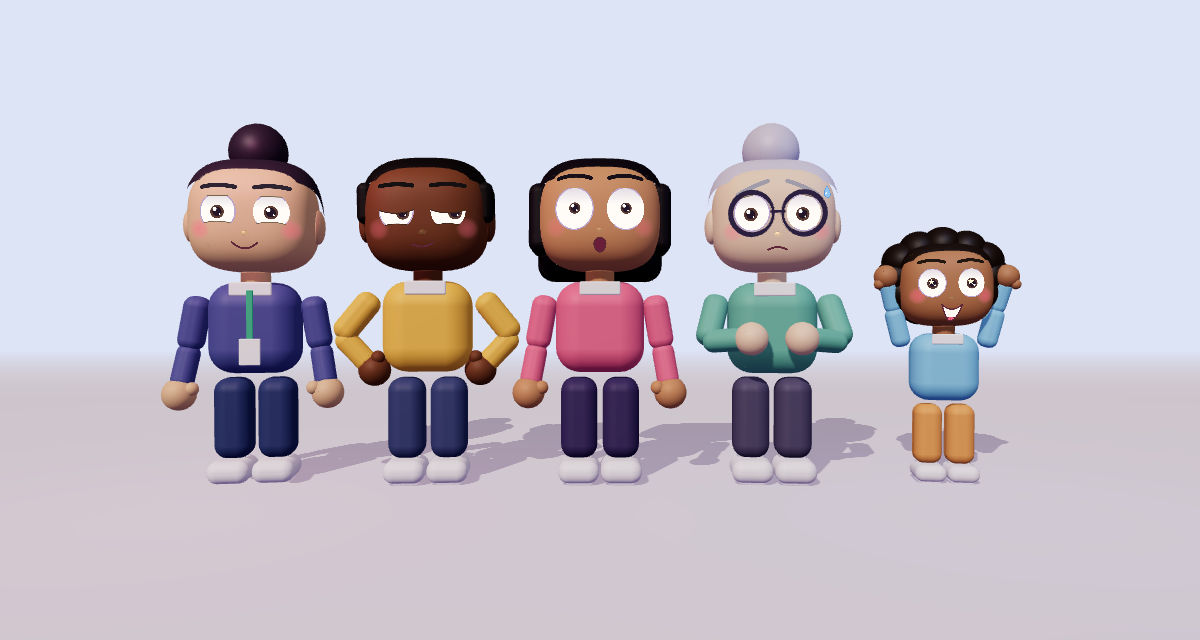
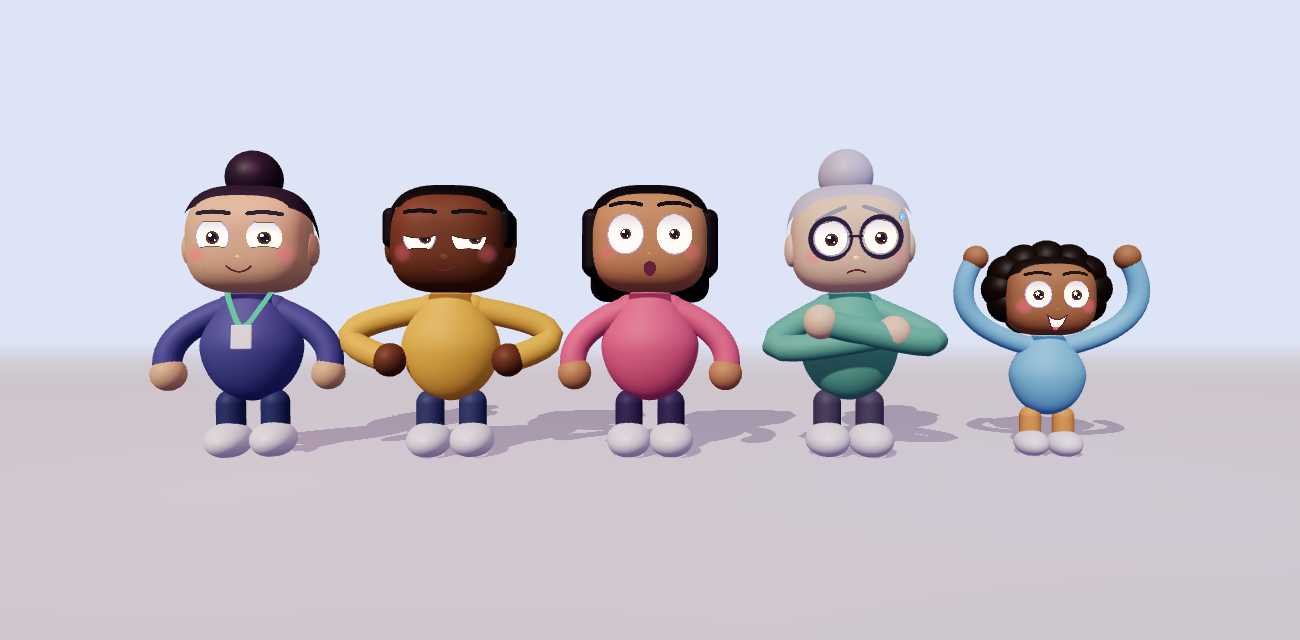
Rebuild body to match the Claim Line style: egg torso, no neck, noodle arms, stubby legs
Claude-Session: https://claude.ai/code/session_01Kz45xoKyRh9DgKCeGKYSWw

Changed region(s): [[0.0925, 0.1875, 0.8942, 0.7812]]

diff --git a/characters/expressive/body.js b/characters/expressive/body.js
@@ -28,6 +28,19 @@ export function createExpressiveKit(THREE, RoundedBoxGeometry, kit) {
     }
     g.computeVertexNormals(); return g;
   }
+  // a soft egg for the torso: wide at the bottom, narrower at the top (sx, sy, sz = radii at the widest part)
+  function egg(sx, sy, sz) {
+    const g = new THREE.SphereGeometry(1, 48, 36), pos = g.attributes.position;
+    for (let i = 0; i < pos.count; i++) {
+      const x = pos.getX(i), y = pos.getY(i), z = pos.getZ(i);
+      const w = 1 - 0.34 * smooth01((y + 0.15) / 1.15);            // narrower toward the top
+      pos.setXYZ(i, x * sx * w, y * sy, z * sz * w);
+    }
+    g.computeVertexNormals(); return g;
+  }
+  const smooth01 = t => { t = Math.min(1, Math.max(0, t)); return t * t * (3 - 2 * t); };
+  // z of the front surface of the egg at (x, y) in body space (used to stick the badge strap on the front)
+  function eggZ(x, y) { const yy = (y - 2.95) / 1.55, w = 1 - 0.34 * smooth01((yy + 0.15) / 1.15), rx = 1.28 * w, rz = 0.98 * w; const q = 1 - (x / rx) ** 2 - yy * yy; return rz * Math.sqrt(Math.max(0.02, q)); }
   const HEAD = { rx: 1.5, ry: 1.3, rz: 1.2 };
   // the face decal: same blob, slightly bigger, UV mapped straight from the front so the 2D face fits exactly
   function facePatch() {
@@ -41,16 +54,19 @@ export function createExpressiveKit(THREE, RoundedBoxGeometry, kit) {
   }
   const FACE_GEO = facePatch();
 
-  const POSES = {   // per arm: [out, forward, elbowBend, forearmInward] in degrees; lift = shoulder raise
-    idle:     { L: [9, 0, 10, 0],    R: [9, 0, 10, 0] },
-    hips:     { L: [38, 0, 0, 82],   R: [38, 0, 0, 82] },
-    shrug:    { L: [24, 0, 20, -55], R: [24, 0, 20, -55], lift: 0.28 },
-    facepalm: { L: [9, 0, 10, 0],    R: [6, 96, 128, 52] },
-    wave:     { L: [9, 0, 10, 0],    R: [150, 0, 30, 0] },
-    armsUp:   { L: [165, 0, 10, 0],  R: [165, 0, 10, 0] },
-    crossed:  { L: [12, 28, 95, 62], R: [12, 28, 95, 62] },
-    point:    { L: [9, 0, 10, 0],    R: [8, 84, 6, 0] },
-    think:    { L: [12, 30, 95, 62], R: [10, 70, 135, 28] },
+  // Poses: where the ELBOW (e) and HAND (h) go, [x, y, z], for the right arm. The left arm uses the same numbers mirrored,
+  // unless a pose gives its own `L`. The arm is one smooth tube that bends through those points (like noodle arms).
+  const SHOULDER = [0.55, 3.8, 0.0];
+  const POSES = {
+    idle:     { R: { e: [1.75, 3.05, 0.15], h: [1.95, 2.1, 0.3] } },
+    hips:     { R: { e: [2.55, 3.15, -0.15], h: [1.5, 2.45, 0.4] } },
+    shrug:    { R: { e: [2.25, 3.6, 0.25], h: [3.0, 4.15, 0.95] }, lift: 0.3 },
+    facepalm: { R: { e: [2.1, 4.2, 1.05], h: [0.3, 5.45, 2.0] }, L: { e: [-1.75, 3.05, 0.15], h: [-1.95, 2.1, 0.3] } },
+    wave:     { R: { e: [2.55, 4.7, 0.45], h: [3.0, 6.3, 0.5] }, L: { e: [-1.75, 3.05, 0.15], h: [-1.95, 2.1, 0.3] } },
+    armsUp:   { R: { e: [2.7, 5.0, 0.2], h: [2.5, 6.9, 0.3] } },
+    crossed:  { R: { e: [1.9, 2.95, 1.05], h: [-0.9, 3.45, 1.55] }, L: { e: [-1.9, 2.8, 0.85], h: [0.9, 3.15, 1.35] } },
+    point:    { R: { e: [1.95, 3.6, 1.0], h: [2.5, 4.05, 2.7] }, L: { e: [-1.75, 3.05, 0.15], h: [-1.95, 2.1, 0.3] } },
+    think:    { R: { e: [1.7, 3.6, 0.95], h: [0.55, 4.45, 1.85] }, L: { e: [-1.9, 2.8, 0.85], h: [0.9, 3.1, 1.35] } },
   };
 
   function mkExpressive(o = {}) {
@@ -59,15 +75,24 @@ export function createExpressiveKit(THREE, RoundedBoxGeometry, kit) {
     const g = new THREE.Group(); g.position.set(O.x, O.y, O.z); g.rotation.y = O.ry; g.scale.setScalar((O.kid ? 0.74 : 1) * O.scale); if (O.parent) O.parent.add(g);
     const body = new THREE.Group(); g.add(body);
     const bodyG = new THREE.Group(); body.add(bodyG);   // torso and everything above the hips (leans and bounces)
-    // legs and shoes
-    const legs = [-1, 1].map(s => { const l = new THREE.Group(); l.position.set(s * 0.52, 2.62, 0); g.add(l); box(l, 0.9, 2.0, 0.95, bottom, 0, -1.05, 0, { round: 0.34 }); box(l, 1.0, 0.55, 1.45, hexn(O.shoe), 0, -2.3, 0.22, { round: 0.26 }); return l; });
-    // torso
-    box(bodyG, 2.2, 2.25, 1.4, top, 0, 3.82, 0, { round: 0.62 });
-    box(bodyG, 1.0, 0.34, 0.1, 0xffffff, 0, 4.78, 0.62, { round: 0.1, noShadow: true });       // collar
-    if (O.lanyard) { box(bodyG, 0.16, 1.2, 0.05, hexn(O.lanyard), 0, 4.15, 0.72, { round: 0.05, noShadow: true }); box(bodyG, 0.5, 0.65, 0.07, 0xffffff, 0, 3.25, 0.74, { round: 0.1, noShadow: true }); }
-    cyl(bodyG, 0.36, 0.5, skin, 0, 5.05, 0, { seg: 16 });
-    // head
-    const head = new THREE.Group(); head.position.set(0, 6.5, 0); bodyG.add(head);
+    // legs: short stubby tubes ending in big round shoes (like the Claim Line people)
+    const shoeC = hexn(O.shoe);
+    const legs = [-1, 1].map(s => {
+      const l = new THREE.Group(); l.position.set(s * 0.55, 1.5, 0); g.add(l);
+      const leg = new THREE.Mesh(new THREE.CapsuleGeometry(0.36, 0.75, 6, 14), mat(bottom)); leg.position.set(0, -0.55, 0); leg.castShadow = true; l.add(leg);
+      const shoe = new THREE.Mesh(new THREE.SphereGeometry(1, 20, 14), mat(shoeC, { roughness: 0.45 })); shoe.scale.set(0.58, 0.46, 0.82); shoe.position.set(0, -1.1, 0.2); shoe.castShadow = true; l.add(shoe);
+      return l;
+    });
+    // torso: ONE soft egg shape, wider at the bottom, no neck. The head sits right on top of it.
+    const torso = new THREE.Mesh(egg(1.28, 1.55, 0.98), mat(top, { roughness: 0.6 })); torso.position.set(0, 2.95, 0); torso.castShadow = true; torso.receiveShadow = true; bodyG.add(torso);
+    if (O.lanyard) {   // a thin strap that follows the front of the egg, with a small badge
+      const pts = []; for (let i = 0; i <= 10; i++) { const u = i / 10, x = (1 - Math.abs(u * 2 - 1)) * 0 + (u < 0.5 ? -1 : 1) * (0.5 - Math.abs(u - 0.5)) * 1.0; const yy = 4.35 - Math.sin(Math.min(u, 1 - u) * Math.PI) * 1.05; pts.push([x, yy]); }
+      const curve = new THREE.CatmullRomCurve3([[-0.62, 4.42], [-0.38, 3.9], [0, 3.35], [0.38, 3.9], [0.62, 4.42]].map(([x, y]) => new THREE.Vector3(x, y, eggZ(x, y) + 0.03)));
+      const lan = new THREE.Mesh(new THREE.TubeGeometry(curve, 24, 0.07, 6, false), new THREE.MeshBasicMaterial({ color: hexn(O.lanyard) })); bodyG.add(lan);
+      const badge = new THREE.Mesh(new RoundedBoxGeometry(0.5, 0.62, 0.08, 3, 0.08), new THREE.MeshStandardMaterial({ color: 0xffffff, roughness: 0.5 })); badge.position.set(0, 3.1, eggZ(0, 3.1) + 0.06); badge.rotation.x = -0.12; bodyG.add(badge);
+    }
+    // head (its chin overlaps the top of the torso)
+    const head = new THREE.Group(); head.position.set(0, 5.5, 0); bodyG.add(head);
     const hm = new THREE.Mesh(blob(HEAD.rx, HEAD.ry, HEAD.rz), mat(skin, { roughness: 0.62 })); hm.castShadow = true; hm.receiveShadow = true; head.add(hm);
     for (const s of [-1, 1]) { const e = ball(head, 0.36, skin, s * 1.5, -0.15, 0, { noShadow: true }); e.scale.set(0.5, 1.2, 1); }
     // face (canvas texture drawn by faces.js)
@@ -91,14 +116,14 @@ export function createExpressiveKit(THREE, RoundedBoxGeometry, kit) {
     }
     if (O.glasses) for (const s of [-1, 1]) { const rg = new THREE.Mesh(new THREE.TorusGeometry(0.5, 0.06, 10, 28), new THREE.MeshBasicMaterial({ color: 0x3a2f4a })); rg.position.set(s * 0.607, 0.09, 1.15); head.add(rg); }
     if (O.glasses) { const br = new THREE.Mesh(new THREE.BoxGeometry(0.35, 0.06, 0.06), new THREE.MeshBasicMaterial({ color: 0x3a2f4a })); br.position.set(0, 0.13, 1.17); head.add(br); }
-    // arms
-    const arms = [-1, 1].map((s, i) => {
-      const sh = new THREE.Group(); sh.position.set(s * 1.35, 4.55, 0); bodyG.add(sh);
-      box(sh, 0.62, 1.35, 0.62, top, 0, -0.62, 0, { round: 0.26 });
-      const el = new THREE.Group(); el.position.set(0, -1.22, 0); sh.add(el);
-      box(el, 0.54, 1.15, 0.54, top, 0, -0.5, 0, { round: 0.24 });
-      const hand = ball(el, 0.4, skin, 0, -1.18, 0, {}); const thumb = ball(el, 0.17, skin, -s * 0.3, -1.02, 0.18, { noShadow: true });
-      return { sh, el, side: s };
+    // arms: ONE smooth tube each, coming out of the side of the torso, bending like a noodle, ending in a round mitten
+    const sleeve = mat(top, { roughness: 0.6 });
+    const arms = [-1, 1].map(s => {
+      const grp = new THREE.Group(); bodyG.add(grp);
+      const tube = new THREE.Mesh(new THREE.BufferGeometry(), sleeve); tube.castShadow = true; grp.add(tube);
+      const hand = new THREE.Mesh(new THREE.SphereGeometry(0.43, 18, 14), mat(skin)); hand.castShadow = true; grp.add(hand);
+      const cap = new THREE.Mesh(new THREE.SphereGeometry(0.37, 14, 12), sleeve); grp.add(cap);   // rounded shoulder end, hidden inside the torso
+      return { grp, tube, hand, cap, side: s, e: new THREE.Vector3(), h: new THREE.Vector3() };
     });
     // shadow blob under the feet is left to the scene (soft shadows already handle it)
     const c = { g, body, bodyG, head, face, fx, ft, arms, legs, O, blink: Math.random() * 6, pose: Object.assign({}, POSES.idle), seed: Math.random() * 10 };
@@ -108,18 +133,26 @@ export function createExpressiveKit(THREE, RoundedBoxGeometry, kit) {
   const shadeBrow = hex => { const n = parseInt(hex.slice(1), 16); const f = 0.8; return `rgb(${((n >> 16) & 255) * f | 0},${((n >> 8) & 255) * f | 0},${(n & 255) * f | 0})`; };
 
   // poseName: a name from POSES, or [nameA, nameB, k] to blend. t = seconds.
+  const V3 = (a, mx = 1) => new THREE.Vector3(a[0] * mx, a[1], a[2]);
+  function armPoints(P, side) {
+    const sp = P[side < 0 ? 'L' : 'R'] || (P.R && { e: [-P.R.e[0], P.R.e[1], P.R.e[2]], h: [-P.R.h[0], P.R.h[1], P.R.h[2]] });
+    return sp;
+  }
   function applyPose(c, name, t, extra = {}) {
     const get = n => POSES[n] || POSES.idle;
     let A, B, k = 0; if (Array.isArray(name)) { A = get(name[0]); B = get(name[1]); k = SMOOTH(name[2]); } else { A = get(name); B = A; }
-    const sw = extra.wave ? Math.sin(t * 9) * 16 : 0;
+    const lift = lerp(A.lift || 0, B.lift || 0, k);
     c.arms.forEach((a, i) => {
-      const key = a.side < 0 ? 'L' : 'R';
-      const v = [0, 1, 2, 3].map(j => lerp(A[key][j], B[key][j], k)), lift = lerp(A.lift || 0, B.lift || 0, k);
-      const breathe = Math.sin(t * 1.6 + i) * 1.2;
-      a.sh.position.y = 4.55 + lift;
-      const out = v[0] + breathe + (key === 'R' ? sw : 0);
-      a.sh.rotation.set(-v[1] * D2R, 0, a.side * out * D2R);          // lift the arm: forward (x) and out to the side (z)
-      a.el.rotation.set(-v[2] * D2R, 0, -a.side * v[3] * D2R);        // bend the elbow, turn the forearm toward the body
+      const pa = armPoints(A, a.side), pb = armPoints(B, a.side);
+      const e = V3(pa.e).lerp(V3(pb.e), k), h = V3(pa.h).lerp(V3(pb.h), k);
+      const br = Math.sin(t * 1.6 + i) * 0.04; h.y += br; e.y += br * 0.5;
+      if (extra.wave && a.side > 0) { h.x += Math.sin(t * 9) * 0.45; e.x += Math.sin(t * 9 + 0.6) * 0.12; }
+      e.y += lift * 0.5; h.y += lift;
+      const S = new THREE.Vector3(a.side * SHOULDER[0], SHOULDER[1] + lift * 0.4, SHOULDER[2]);
+      const C = e.clone().multiplyScalar(2).sub(S.clone().add(h).multiplyScalar(0.5));       // control point so the curve passes by the elbow
+      const curve = new THREE.QuadraticBezierCurve3(S, C, h);
+      a.tube.geometry.dispose(); a.tube.geometry = new THREE.TubeGeometry(curve, 18, 0.34, 14, false);
+      a.hand.position.copy(h); a.cap.position.copy(S);
     });
   }
 

diff --git a/characters/expressive/make_previews.js b/characters/expressive/make_previews.js
@@ -46,15 +46,15 @@ async function stills() {
   const shot = async (name, W, H, build, views, states, t = 1) => { await p.setViewportSize({ width: W, height: H }); await p.evaluate(b => window.build(b), build); await p.evaluate(([W, H, v, s, t]) => window.draw(W, H, v, t, s), [W, H, views, states, t]); await p.screenshot({ path: path.join(OUT, name) }); console.log('saved', name); };
   const V = (x, y, w, h, pos, look, fov = 35) => ({ x, y, w, h, cam: { pos, look, fov } });
   // 1 meet the hero: full body + close up
-  await shot('01_hero_mara.png', 1000, 900, [{ person: 'mara' }], [V(0, 0, 500, 900, [0, 5, 25], [0, 4.2, 0]), V(500, 0, 500, 900, [0, 6.7, 10], [0, 6.5, 0])], [{ face: 'smirk', pose: 'hips' }]);
+  await shot('01_hero_mara.png', 1000, 900, [{ person: 'mara' }], [V(0, 0, 500, 900, [0, 4.4, 22], [0, 3.7, 0]), V(500, 0, 500, 900, [0, 5.9, 10], [0, 5.7, 0])], [{ face: 'smirk', pose: 'hips' }]);
   // 2 turnaround
-  await shot('02_hero_turnaround.png', 1200, 560, [{ person: 'mara' }], [0, 1, 2, 3].map(i => { const a = [0, 40, 90, 180][i] * Math.PI / 180; return V(i * 300, 0, 300, 560, [Math.sin(a) * 23, 4.5, Math.cos(a) * 23], [0, 4.2, 0], 36); }), [{ face: 'happy', pose: 'idle', alive: false }]);
+  await shot('02_hero_turnaround.png', 1200, 560, [{ person: 'mara' }], [0, 1, 2, 3].map(i => { const a = [0, 40, 90, 180][i] * Math.PI / 180; return V(i * 300, 0, 300, 560, [Math.sin(a) * 20, 4.0, Math.cos(a) * 20], [0, 3.6, 0], 36); }), [{ face: 'happy', pose: 'idle', alive: false }]);
   // 3 the starter cast
   const faces = ['happy', 'smug', 'surprised', 'worried', 'excited'];
-  await shot('03_cast.png', 1200, 640, xs().map((n, i) => ({ person: n, x: (i - 2) * 4.3, ry: -(i - 2) * 0.08 })), [V(0, 0, 1200, 640, [0, 4.4, 22], [0, 4.0, 0], 40)], faces.map((f, i) => ({ face: f, pose: ['idle', 'hips', 'idle', 'crossed', 'armsUp'][i] })));
+  await shot('03_cast.png', 1300, 640, xs().map((n, i) => ({ person: n, x: (i - 2) * 5.2, ry: -(i - 2) * 0.08 })), [V(0, 0, 1300, 640, [0, 4.0, 23], [0, 3.5, 0], 40)], faces.map((f, i) => ({ face: f, pose: ['idle', 'hips', 'idle', 'crossed', 'armsUp'][i] })));
   // 4 poses
   const poses = ['idle', 'hips', 'shrug', 'facepalm', 'wave', 'armsUp', 'crossed', 'point', 'think'], pf = ['neutral', 'smirk', 'speechless', 'cringe', 'happy', 'excited', 'unimpressed', 'determined', 'thinking'];
-  const pv = []; poses.forEach((n, i) => pv.push(V((i % 3) * 330, Math.floor(i / 3) * 520, 330, 520, [0, 4.6, 22], [0, 4.2, 0], 36)));
+  const pv = []; poses.forEach((n, i) => pv.push(V((i % 3) * 330, Math.floor(i / 3) * 520, 330, 520, [0, 4.2, 19], [0, 3.7, 0], 36)));
   for (let i = 0; i < 9; i++) { /* one character, drawn nine times with different states */ }
   await p.setViewportSize({ width: 990, height: 1560 });
   for (let i = 0; i < 9; i++) { await p.evaluate(b => window.build(b), [{ person: 'mara' }]); await p.evaluate(([i, pose, face, v]) => window.draw(990, 1560, [v], 1, [{ pose, face, alive: false }]), [i, poses[i], pf[i], pv[i]]); await p.screenshot({ path: path.join(OUT, `_pose${i}.png`), clip: { x: pv[i].x, y: pv[i].y, width: 330, height: 520 } }); }
@@ -91,8 +91,8 @@ async function video() {
       const pose = k === 0 ? cur[2] : [prev[2], cur[2], bl];
       const state = { face, pose, laugh: o.laugh || 0, shake: o.shake || 0, quiver: o.quiver || 0, slump: o.slump || 0, tilt: o.roll ? 0.12 * Math.sin(Math.min(1, tl / 1.2) * Math.PI) : undefined };
       window.label(cur[0]);
-      const ang = Math.sin(t * 0.35) * 0.28, R = 15.5;
-      window.draw(576, 1024, [{ x: 0, y: 0, w: 576, h: 1024, cam: { pos: [Math.sin(ang) * R, 6.4 + Math.sin(t * 0.5) * 0.25, Math.cos(ang) * R], look: [0, 5.4, 0], fov: 34 } }], t, [state]);
+      const ang = Math.sin(t * 0.35) * 0.28, R = 14.5;
+      window.draw(576, 1024, [{ x: 0, y: 0, w: 576, h: 1024, cam: { pos: [Math.sin(ang) * R, 5.6 + Math.sin(t * 0.5) * 0.25, Math.cos(ang) * R], look: [0, 4.6, 0], fov: 34 } }], t, [state]);
     }, [i / fps]);
     await p.screenshot({ path: path.join(FR, `f_${String(i).padStart(4, '0')}.jpg`), type: 'jpeg', quality: 90 });
     if (i % 60 === 0) console.log('frame', i);

diff --git a/characters/EXPRESSIONS.md b/characters/EXPRESSIONS.md
@@ -8,11 +8,17 @@ The robots and `robots.js` are NOT changed. Everything lives in `characters/expr
 - `01_hero_mara.png` full body + close up of the hero (Mara)
 - `02_hero_turnaround.png` front, three-quarter, side, back
 - `03_cast.png` the 5 starter characters (different skin tones, hair, ages, glasses, a kid)
-- `04_poses.png` 9 body poses (idle, hips, shrug, facepalm, wave, armsUp, crossed, point, think)
+- `04_poses.png` 9 body poses (idle, hips, shrug, facepalm, wave, armsUp, crossed, point, think), all with the new noodle arms
 - `faces_1_calm.png` ... `faces_7_shy_and_awkward.png` all 50 faces, grouped
 - `parts_1_eyes.png`, `parts_2_brows.png`, `parts_3_mouths.png`, `parts_4_nose_cheeks_extras.png` each part on its own
 - `mix_and_match.png` parts taken from different feelings ("Fine." = sad eyes + big smile)
 - `05_motion_demo.mp4` Mara cycling through feelings, including an animated eye roll
+
+## How the body is built (matches the Claim Line people)
+- ONE soft egg-shaped torso, wider at the bottom. No neck: the head sits right on the torso and its chin overlaps it.
+- Arms are single smooth tubes that start inside the side of the torso and bend like noodles, ending in a round mitten. No joints, no gaps.
+- Short stubby legs ending in big round shoes.
+- Poses are written as where the elbow and the hand go (`POSES` in `body.js`), so a new pose is just two points per arm.
 
 ## How a face works (`faces.js`)
 A face is a set of numbers. Each part of the face has its own numbers, so a character can mix parts.
